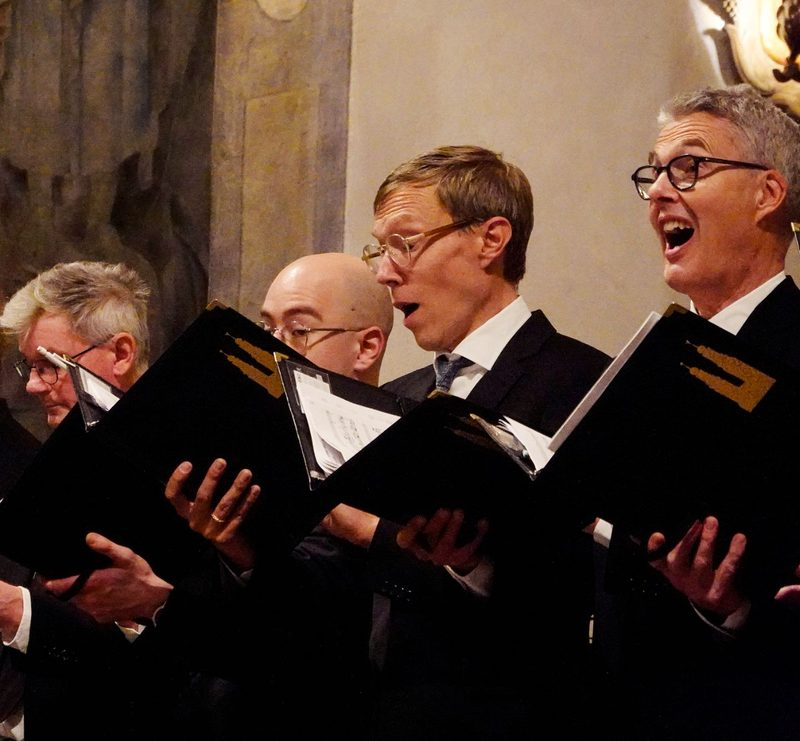
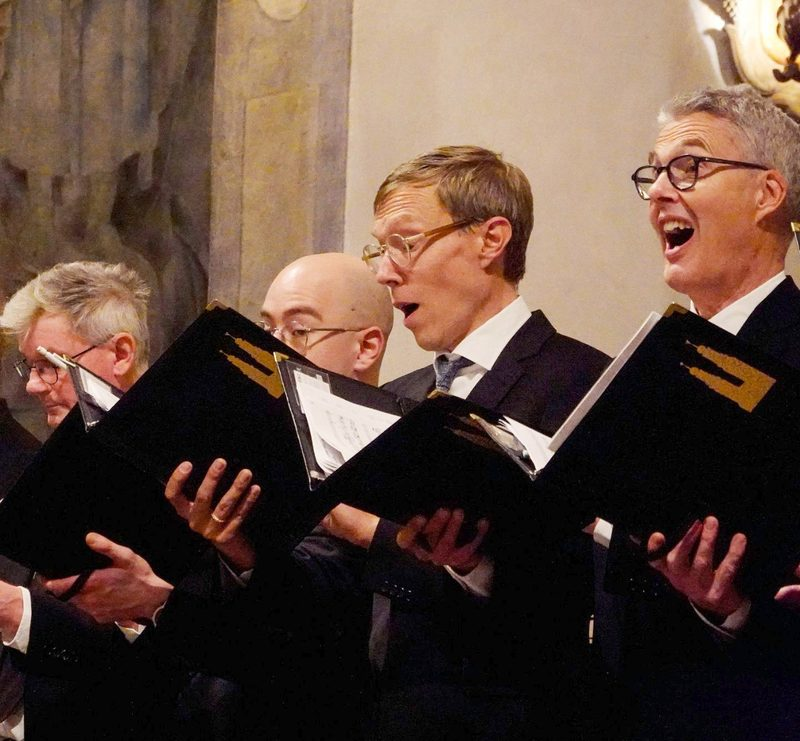
Brighten choir photos and credit photographer Mats Edman
- Lift shadows and midtones of the new choir photos with a gentle
  gamma curve (highlights preserved) and regenerate all variants.
- Credit Mats Edman on the homepage, join, about and Bach & Zelenka
  pages, and as poster image credit for Visit Stockholm.

Claude-Session: https://claude.ai/code/session_01C8kYjgm8DWvn2eiaSYufmP

diff --git a/public/sjung-med-oss/index.html b/public/sjung-med-oss/index.html
@@ -64,7 +64,7 @@
       </div>
       <div class="media-card media-card--portrait">
         <img src="/assets/imported/kammarkoren-hogalid-hogalidskyrkan-2026.jpg" alt="Kammarkören Högalid samlad framför altaret i Högalidskyrkan." class="media-card-image" srcset="/assets/imported/kammarkoren-hogalid-hogalidskyrkan-2026-500.jpg 500w, /assets/imported/kammarkoren-hogalid-hogalidskyrkan-2026-800.jpg 800w, /assets/imported/kammarkoren-hogalid-hogalidskyrkan-2026-1200.jpg 1200w, /assets/imported/kammarkoren-hogalid-hogalidskyrkan-2026-1600.jpg 1600w, /assets/imported/kammarkoren-hogalid-hogalidskyrkan-2026.jpg 2000w" sizes="(max-width: 991px) 100vw, 44vw" loading="eager" decoding="sync" fetchpriority="high"/>
-        
+        <p class="media-card-credit">Foto: Mats Edman</p>
       </div>
     </div>
   </section>

diff --git a/public/konserter/index.html b/public/konserter/index.html
@@ -88,7 +88,7 @@
             <p class="concert-card-meta">söndag 25 oktober 2026 kl 16:00 · Högalidskyrkan</p>
             <p class="concert-card-copy">Kammarkören Högalid och Johann Sebastian Bach-Chor från Hamburg möts i Högalidskyrkan med vokalsolister och barockorkester. Fri entré.</p>
             <p class="concert-lunch-teaser"><a href="/konserter/barockkonsert-hogalid/#lunch" data-track="concert_lunch" data-track-location="concerts_upcoming">Lunch med Zelenka 22 oktober – soppa och introduktion till musiken</a></p>
-            
+            <p class="concert-card-credit">Bild: Mats Edman</p>
             <div class="concert-card-actions">
               
               <a href="/konserter/barockkonsert-hogalid/" class="cta-button cta-button--secondary">Se konsertinfo</a>

diff --git a/public/om-oss/index.html b/public/om-oss/index.html
@@ -64,7 +64,7 @@
       </div>
       <div class="media-card media-card--portrait">
         <img src="/assets/imported/kammarkoren-hogalid-sjunger-2026.jpg" alt="Sångare i Kammarkören Högalid sjunger framför altaret i Högalidskyrkan." class="media-card-image" srcset="/assets/imported/kammarkoren-hogalid-sjunger-2026-500.jpg 500w, /assets/imported/kammarkoren-hogalid-sjunger-2026-800.jpg 800w, /assets/imported/kammarkoren-hogalid-sjunger-2026-1200.jpg 1200w, /assets/imported/kammarkoren-hogalid-sjunger-2026-1600.jpg 1600w, /assets/imported/kammarkoren-hogalid-sjunger-2026.jpg 2000w" sizes="(max-width: 991px) 100vw, 44vw" loading="eager" decoding="sync" fetchpriority="high"/>
-        
+        <p class="media-card-credit">Foto: Mats Edman</p>
       </div>
     </div>
   </section>

diff --git a/public/konserter/barockkonsert-hogalid/index.html b/public/konserter/barockkonsert-hogalid/index.html
@@ -65,7 +65,7 @@
       </div>
       <div class="media-card">
         <img src="/assets/imported/concerts/bach-zelenka-korsangare.jpg" alt="Sångare i Kammarkören Högalid sjunger ur noterna till Zelenkas Missa Sancti Josephi." class="media-card-image" srcset="/assets/imported/concerts/bach-zelenka-korsangare-500.jpg 500w, /assets/imported/concerts/bach-zelenka-korsangare-800.jpg 800w, /assets/imported/concerts/bach-zelenka-korsangare-1200.jpg 1200w, /assets/imported/concerts/bach-zelenka-korsangare.jpg 1440w" sizes="(max-width: 991px) 100vw, 44vw" loading="eager" decoding="sync" fetchpriority="high"/>
-        
+        <p class="media-card-credit">Bild: Mats Edman</p>
       </div>
     </div>
   </section>

diff --git a/public/index.html b/public/index.html
@@ -84,7 +84,7 @@
             
           </div>
         </aside>
-        
+        <p class="hero-media-credit">Foto: Mats Edman</p>
       </div>
     </div>
   </section>
